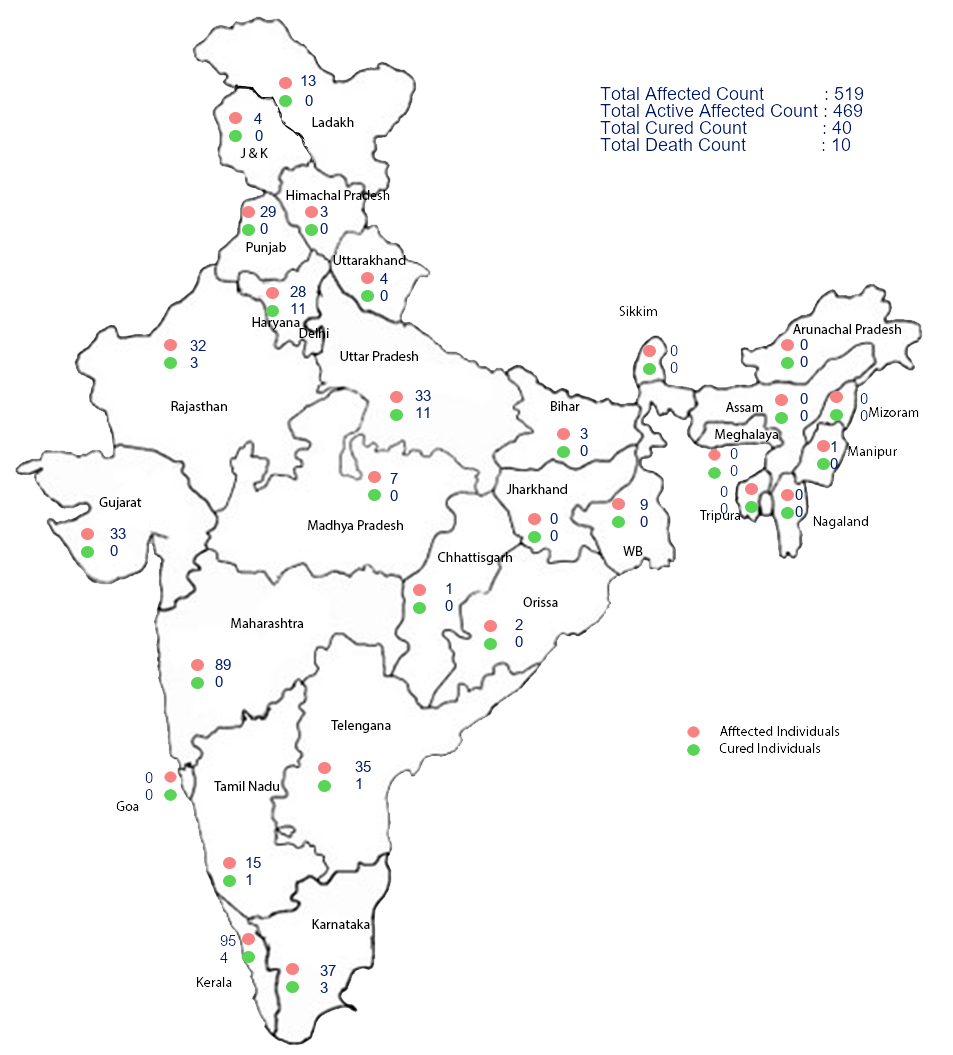
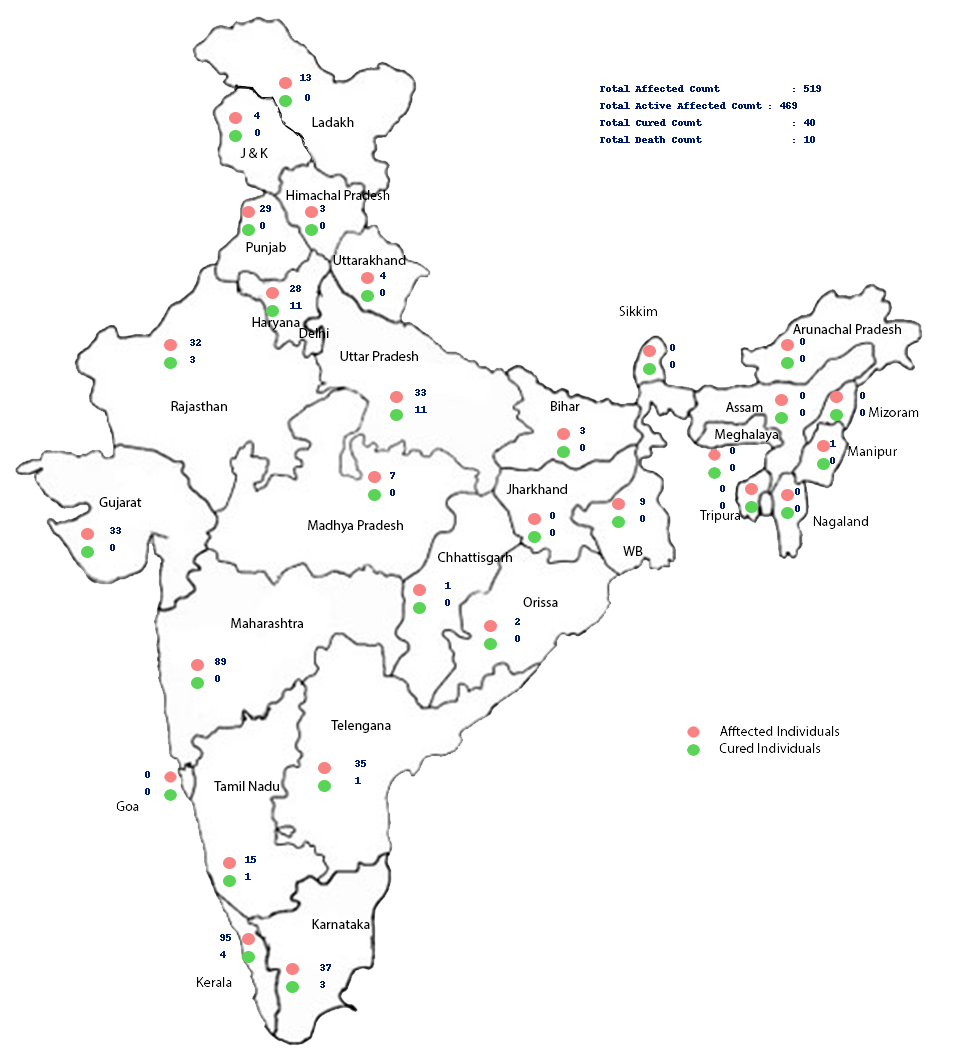
fullcommit4

diff --git a/coronaIndia/getImage.py b/coronaIndia/getImage.py
@@ -8,8 +8,10 @@ def getImage(dictAffectedData,dictCuredData,total,cTotal,dcount,allTotal):
     #img = Image.open(r"coronaIndia\static\images\india5.png")#('RGB', (100, 30), color = (0, 26, 102))
     img = Image.open(settings.STATIC_ROOT + "/images/india5.png")
     d = ImageDraw.Draw(img)
-    fnt = ImageFont.truetype('arial.ttf', 15)
-    fnt1 = ImageFont.truetype('arial.ttf', 18)
+    fnt = ImageFont.load_default()
+    fnt1 = ImageFont.load_default()
+    #fnt = ImageFont.truetype('arial.ttf', 15)
+    #fnt1 = ImageFont.truetype('arial.ttf', 18)
     print('here')
     #Ladakh
     d.text((300,72), str(dictAffectedData['Ladakh']),font=fnt, fill=(0, 26, 102))
